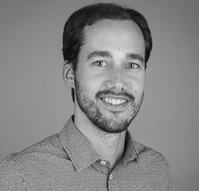
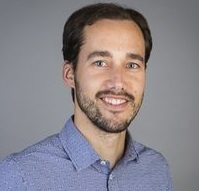
different blwh

diff --git a/_includes/collage.html b/_includes/collage.html
@@ -11,63 +11,99 @@
   <div class="collage-item">
     {% for person in current-member limit:5 %}
       <a href="{{ site.baseurl }}people#{{ person.bio_url }}">
+      {% if person.alumni == nil %}
         <img src="{{ site.baseurl }}{{ person.image_path }}" title="{{ person.firstname }} {{ person.surname }}" alt="{{ person.firstname }} {{ person.surname}}" />
+      {% else %}
+        <img style="-webkit-filter:grayscale(92.5%); filter:grayscale(92.5%)" src="{{ site.baseurl }}{{ person.image_path }}" title="{{ person.firstname }} {{ person.surname }}" alt="{{ person.firstname }} {{ person.surname}}" />
+      {% endif %}
       </a>
     {% endfor %}
   </div>
   <div class="collage-item">
     {% for person in current-member limit:4 offset:5 %}
       <a href="{{ site.baseurl }}people#{{ person.bio_url }}">
+      {% if person.alumni == nil %}
         <img src="{{ site.baseurl }}{{ person.image_path }}" title="{{ person.firstname }} {{ person.surname }}" alt="{{ person.firstname }} {{ person.surname}}" />
+      {% else %}
+        <img style="-webkit-filter:grayscale(92.5%); filter:grayscale(92.5%)" src="{{ site.baseurl }}{{ person.image_path }}" title="{{ person.firstname }} {{ person.surname }}" alt="{{ person.firstname }} {{ person.surname}}" />
+      {% endif %}
       </a>
     {% endfor %}
   </div>
   <div class="collage-item">
     {% for person in current-member limit:5 offset:9 %}
       <a href="{{ site.baseurl }}people#{{ person.bio_url }}">
+      {% if person.alumni == nil %}
         <img src="{{ site.baseurl }}{{ person.image_path }}" title="{{ person.firstname }} {{ person.surname }}" alt="{{ person.firstname }} {{ person.surname}}" />
+      {% else %}
+        <img style="-webkit-filter:grayscale(92.5%); filter:grayscale(92.5%)" src="{{ site.baseurl }}{{ person.image_path }}" title="{{ person.firstname }} {{ person.surname }}" alt="{{ person.firstname }} {{ person.surname}}" />
+      {% endif %}
       </a>
     {% endfor %}
   </div>
   <div class="collage-item">
     {% for person in current-member limit:5 offset:14 %}
       <a href="{{ site.baseurl }}people#{{ person.bio_url }}">
+      {% if person.alumni == nil %}
         <img src="{{ site.baseurl }}{{ person.image_path }}" title="{{ person.firstname }} {{ person.surname }}" alt="{{ person.firstname }} {{ person.surname}}" />
+      {% else %}
+        <img style="-webkit-filter:grayscale(92.5%); filter:grayscale(92.5%)" src="{{ site.baseurl }}{{ person.image_path }}" title="{{ person.firstname }} {{ person.surname }}" alt="{{ person.firstname }} {{ person.surname}}" />
+      {% endif %}
       </a>
     {% endfor %}
   </div>
   <div class="collage-item">
     {% for person in current-member limit:5 offset:19 %}
       <a href="{{ site.baseurl }}people#{{ person.bio_url }}">
+      {% if person.alumni == nil %}
         <img src="{{ site.baseurl }}{{ person.image_path }}" title="{{ person.firstname }} {{ person.surname }}" alt="{{ person.firstname }} {{ person.surname}}" />
+      {% else %}
+        <img style="-webkit-filter:grayscale(92.5%); filter:grayscale(92.5%)" src="{{ site.baseurl }}{{ person.image_path }}" title="{{ person.firstname }} {{ person.surname }}" alt="{{ person.firstname }} {{ person.surname}}" />
+      {% endif %}
       </a>
     {% endfor %}
   </div>
   <div class="collage-item">
     {% for person in current-member limit:5 offset:24 %}
       <a href="{{ site.baseurl }}people#{{ person.bio_url }}">
+      {% if person.alumni == nil %}
         <img src="{{ site.baseurl }}{{ person.image_path }}" title="{{ person.firstname }} {{ person.surname }}" alt="{{ person.firstname }} {{ person.surname}}" />
+      {% else %}
+        <img style="-webkit-filter:grayscale(92.5%); filter:grayscale(92.5%)" src="{{ site.baseurl }}{{ person.image_path }}" title="{{ person.firstname }} {{ person.surname }}" alt="{{ person.firstname }} {{ person.surname}}" />
+      {% endif %}
       </a>
     {% endfor %}
   </div>
   <div class="collage-item">
     {% for person in current-member limit:5 offset:29 %}
       <a href="{{ site.baseurl }}people#{{ person.bio_url }}">
+      {% if person.alumni == nil %}
         <img src="{{ site.baseurl }}{{ person.image_path }}" title="{{ person.firstname }} {{ person.surname }}" alt="{{ person.firstname }} {{ person.surname}}" />
+      {% else %}
+        <img style="-webkit-filter:grayscale(92.5%); filter:grayscale(92.5%)" src="{{ site.baseurl }}{{ person.image_path }}" title="{{ person.firstname }} {{ person.surname }}" alt="{{ person.firstname }} {{ person.surname}}" />
+      {% endif %}
       </a>
     {% endfor %}
   </div>
   <div class="collage-item">
     {% for person in current-member limit:5 offset:34 %}
       <a href="{{ site.baseurl }}people#{{ person.bio_url }}">
+      {% if person.alumni == nil %}
         <img src="{{ site.baseurl }}{{ person.image_path }}" title="{{ person.firstname }} {{ person.surname }}" alt="{{ person.firstname }} {{ person.surname}}" />
+      {% else %}
+        <img style="-webkit-filter:grayscale(92.5%); filter:grayscale(92.5%)" src="{{ site.baseurl }}{{ person.image_path }}" title="{{ person.firstname }} {{ person.surname }}" alt="{{ person.firstname }} {{ person.surname}}" />
+      {% endif %}
       </a>
     {% endfor %}
   </div>
   <div class="collage-item">
     {% for person in current-member limit:4 offset:39 %}
       <a href="{{ site.baseurl }}people#{{ person.bio_url }}">
+      {% if person.alumni == nil %}
         <img src="{{ site.baseurl }}{{ person.image_path }}" title="{{ person.firstname }} {{ person.surname }}" alt="{{ person.firstname }} {{ person.surname}}" />
+      {% else %}
+        <img style="-webkit-filter:grayscale(92.5%); filter:grayscale(92.5%)" src="{{ site.baseurl }}{{ person.image_path }}" title="{{ person.firstname }} {{ person.surname }}" alt="{{ person.firstname }} {{ person.surname}}" />
+      {% endif %}
       </a>
     {% endfor %}
   </div> 

diff --git a/_sass/minima/_base.scss b/_sass/minima/_base.scss
@@ -372,6 +372,14 @@ figcaption {
     filter: grayscale(17.5%);
     -webkit-filter: grayscale(17.5%);
   }
+
+  a:hover img { 
+    -webkit-filter: none;
+    filter: none;
+    transform: scale(1.5);
+    box-shadow: 0 0 10px rgba(0, 0, 0, 0.5);
+  }
+
 }
 
 /**
